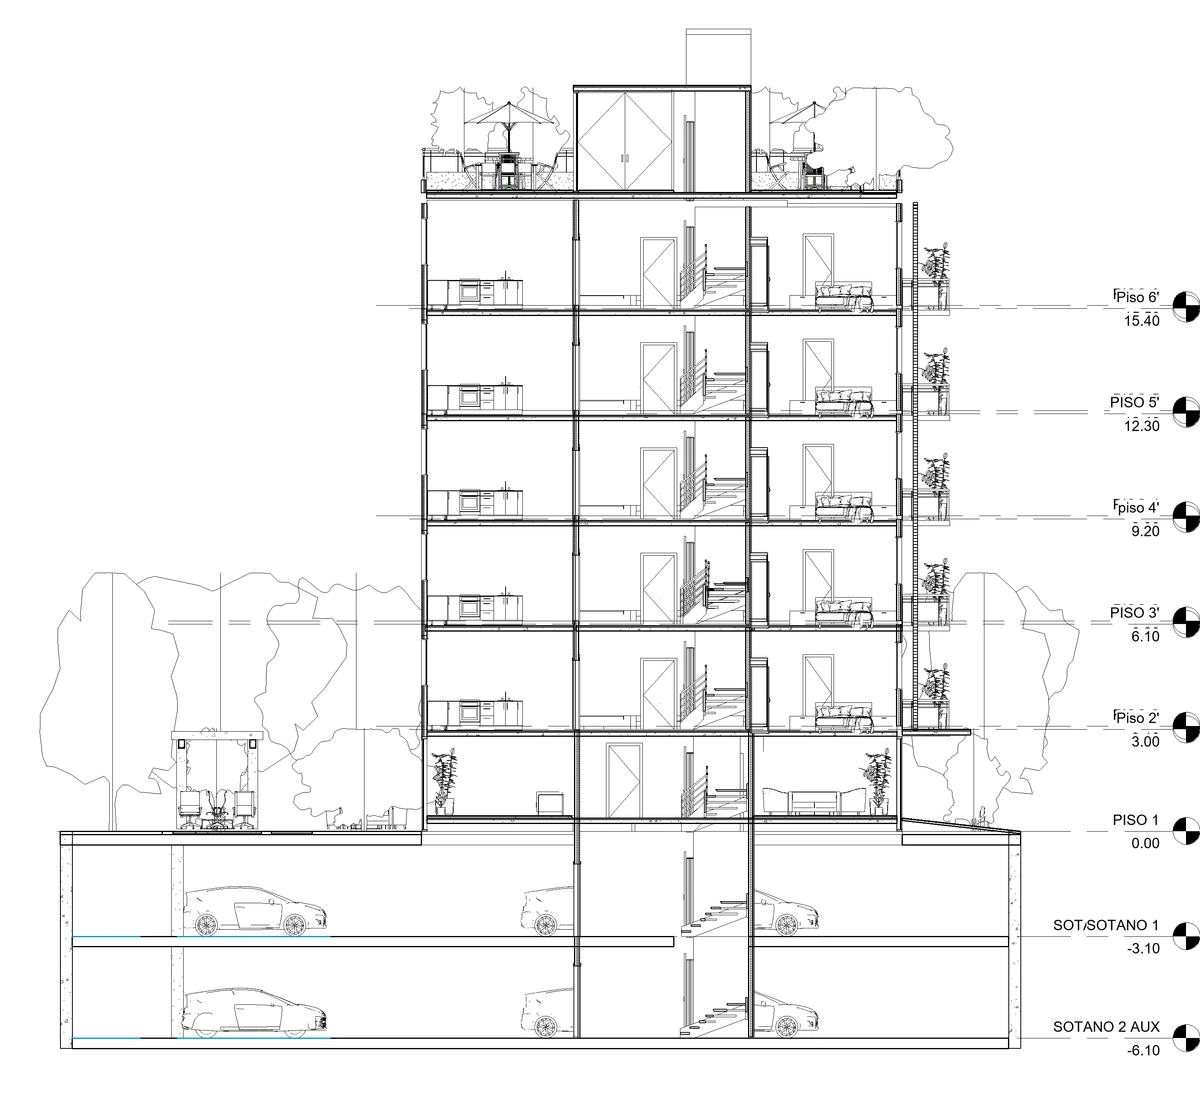
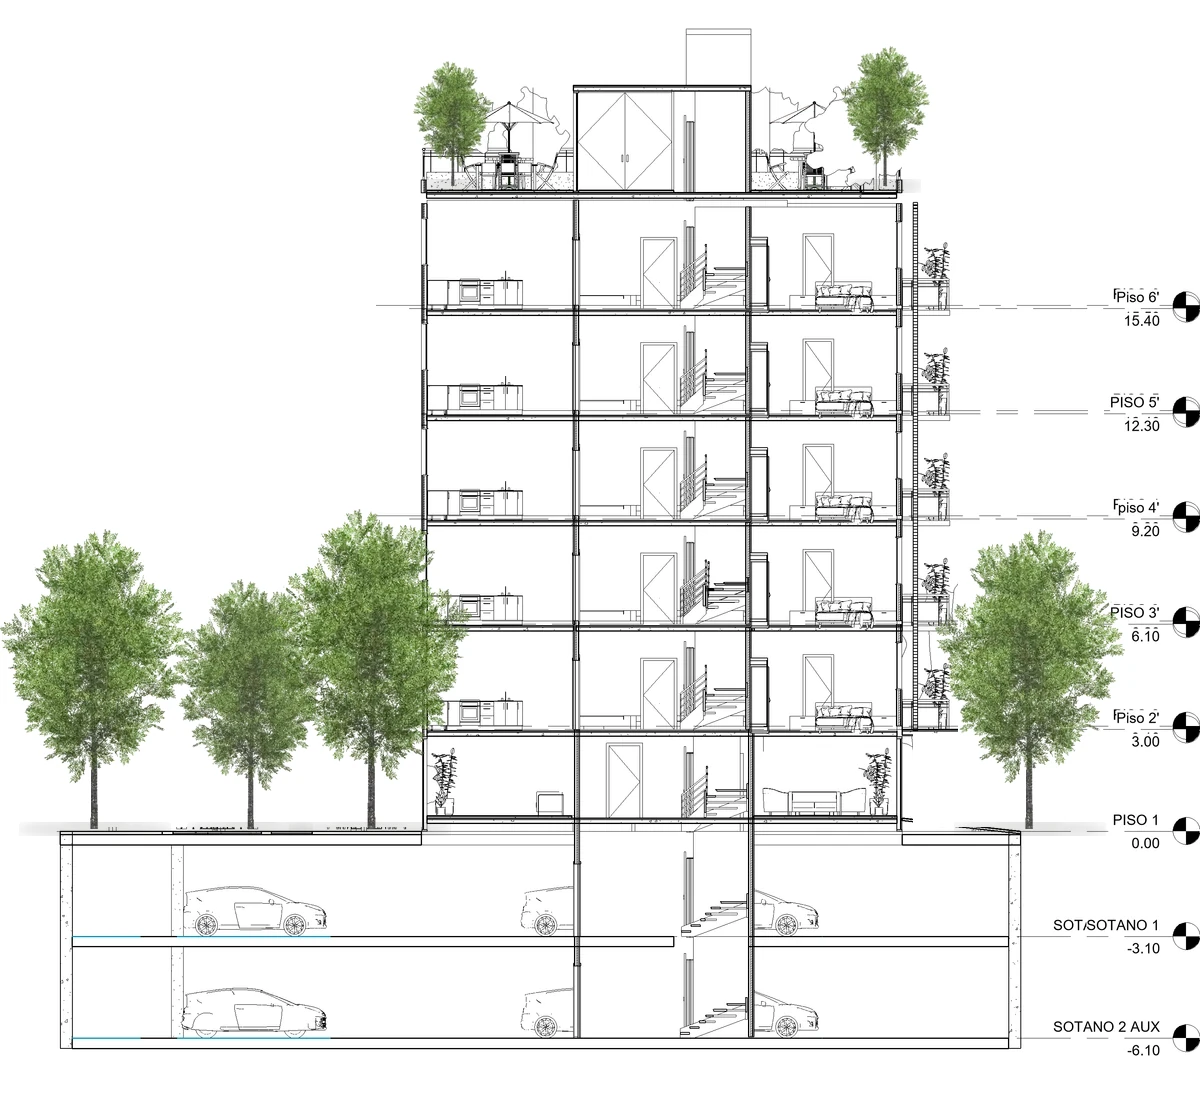
Corte del inicio mas grande y con arboles reales

diff --git a/index.html b/index.html
@@ -82,7 +82,7 @@
         </div>
         <figure class="st-corte">
           <div class="stc-img">
-            <img src="./assets/renders/corte-revit.webp" alt="Corte del edificio: sótano de parqueaderos, primer piso con zonas comunes, cinco pisos de apartamentos y terraza en la cubierta" width="1200" height="1096" />
+            <img src="./assets/renders/corte-revit.webp?v=arb1" alt="Corte del edificio: sótano de parqueaderos, primer piso con zonas comunes, cinco pisos de apartamentos y terraza en la cubierta" width="1200" height="1096" />
             <div class="stc-band" aria-hidden="true"></div>
           </div>
           <figcaption class="stc-cap" aria-live="off"><b>Piso 1</b><span>Lobby, restaurante, cine y gimnasio</span></figcaption>

diff --git a/assets/brochure/arboleda.css b/assets/brochure/arboleda.css
@@ -1132,3 +1132,7 @@ h2 { font-size: clamp(30px, 4.2vw, 64px) !important; line-height: 1.08 !importan
 }
 .nav .btn-sm { white-space: nowrap; }
 .stc-img { background: var(--paper); }
+
+/* corte del inicio más grande */
+@media (min-width: 900px) { .statement .st-grid { grid-template-columns: minmax(0, .82fr) minmax(0, 1.35fr); gap: clamp(24px, 3vw, 48px); } .st-corte { margin-right: clamp(-60px, -3vw, 0px); } }
+.statement .st-grid { max-width: min(1500px, 100%); }
